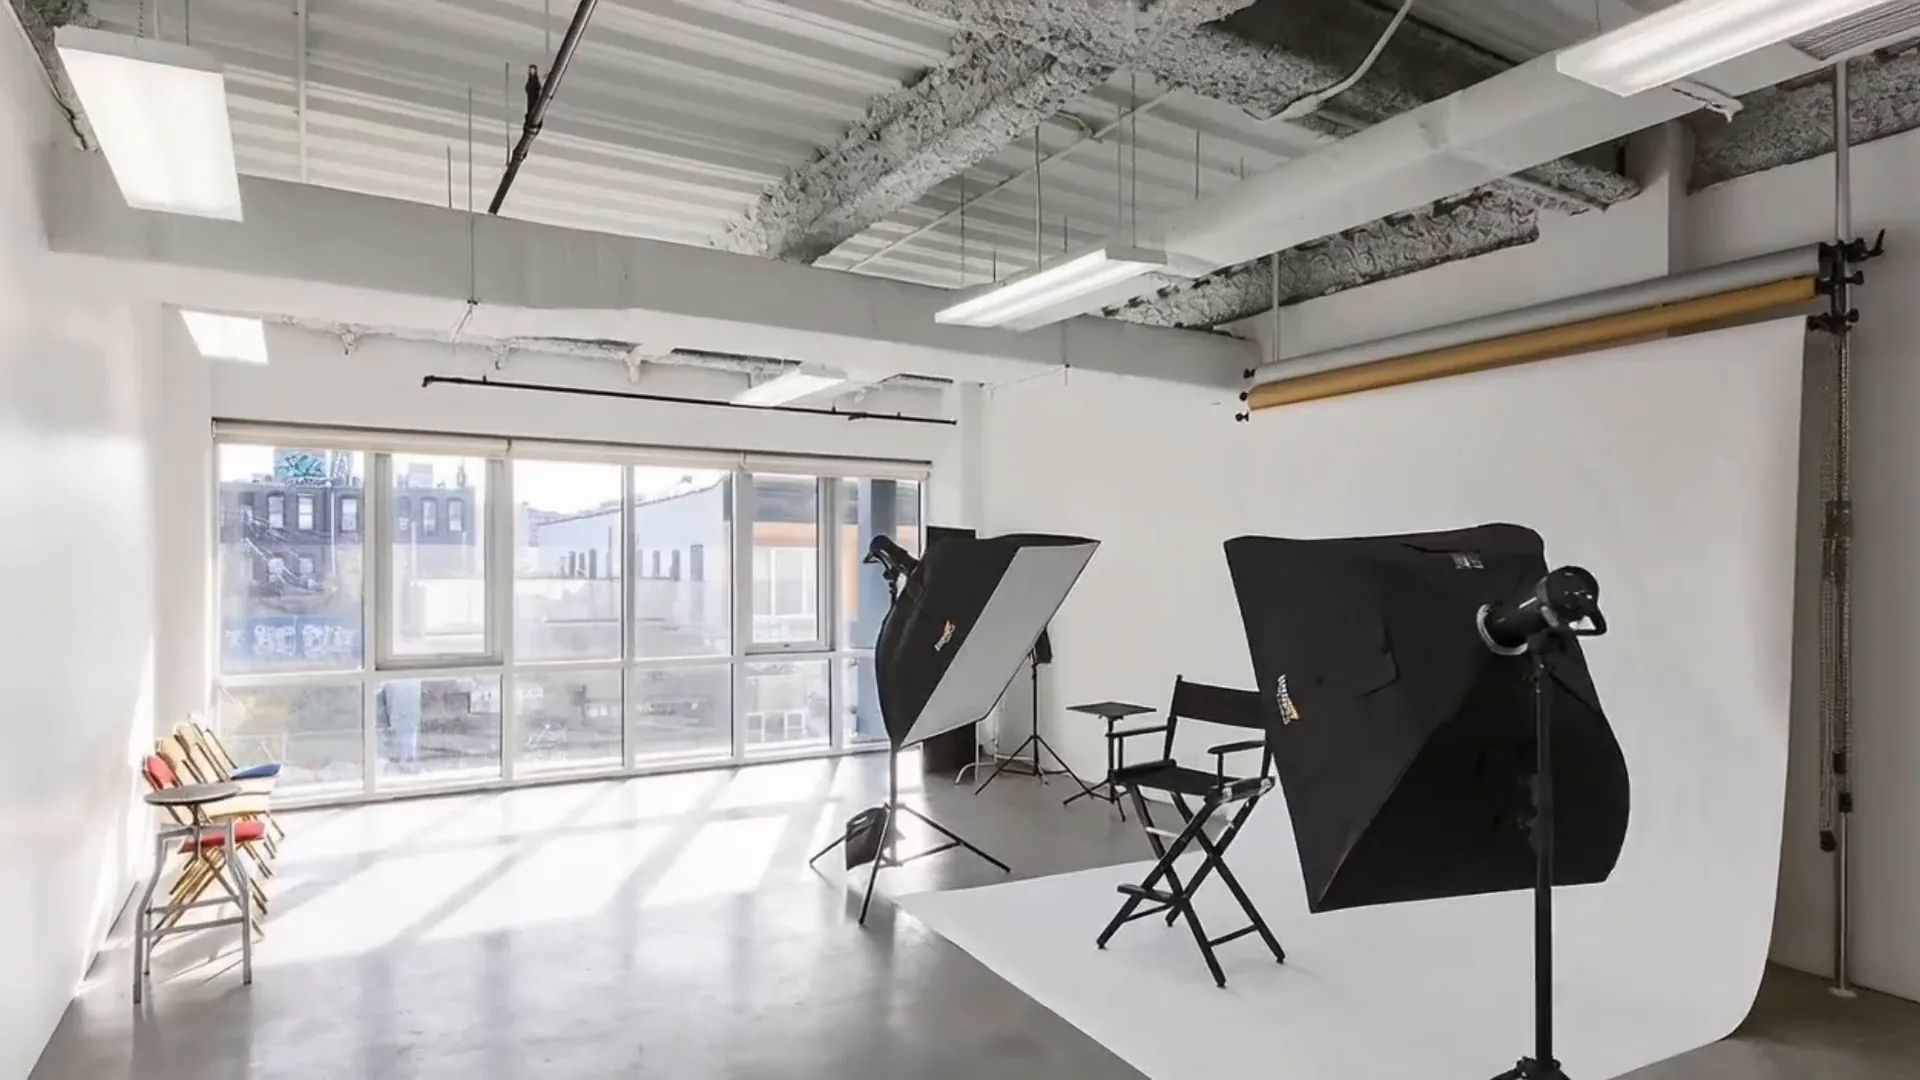
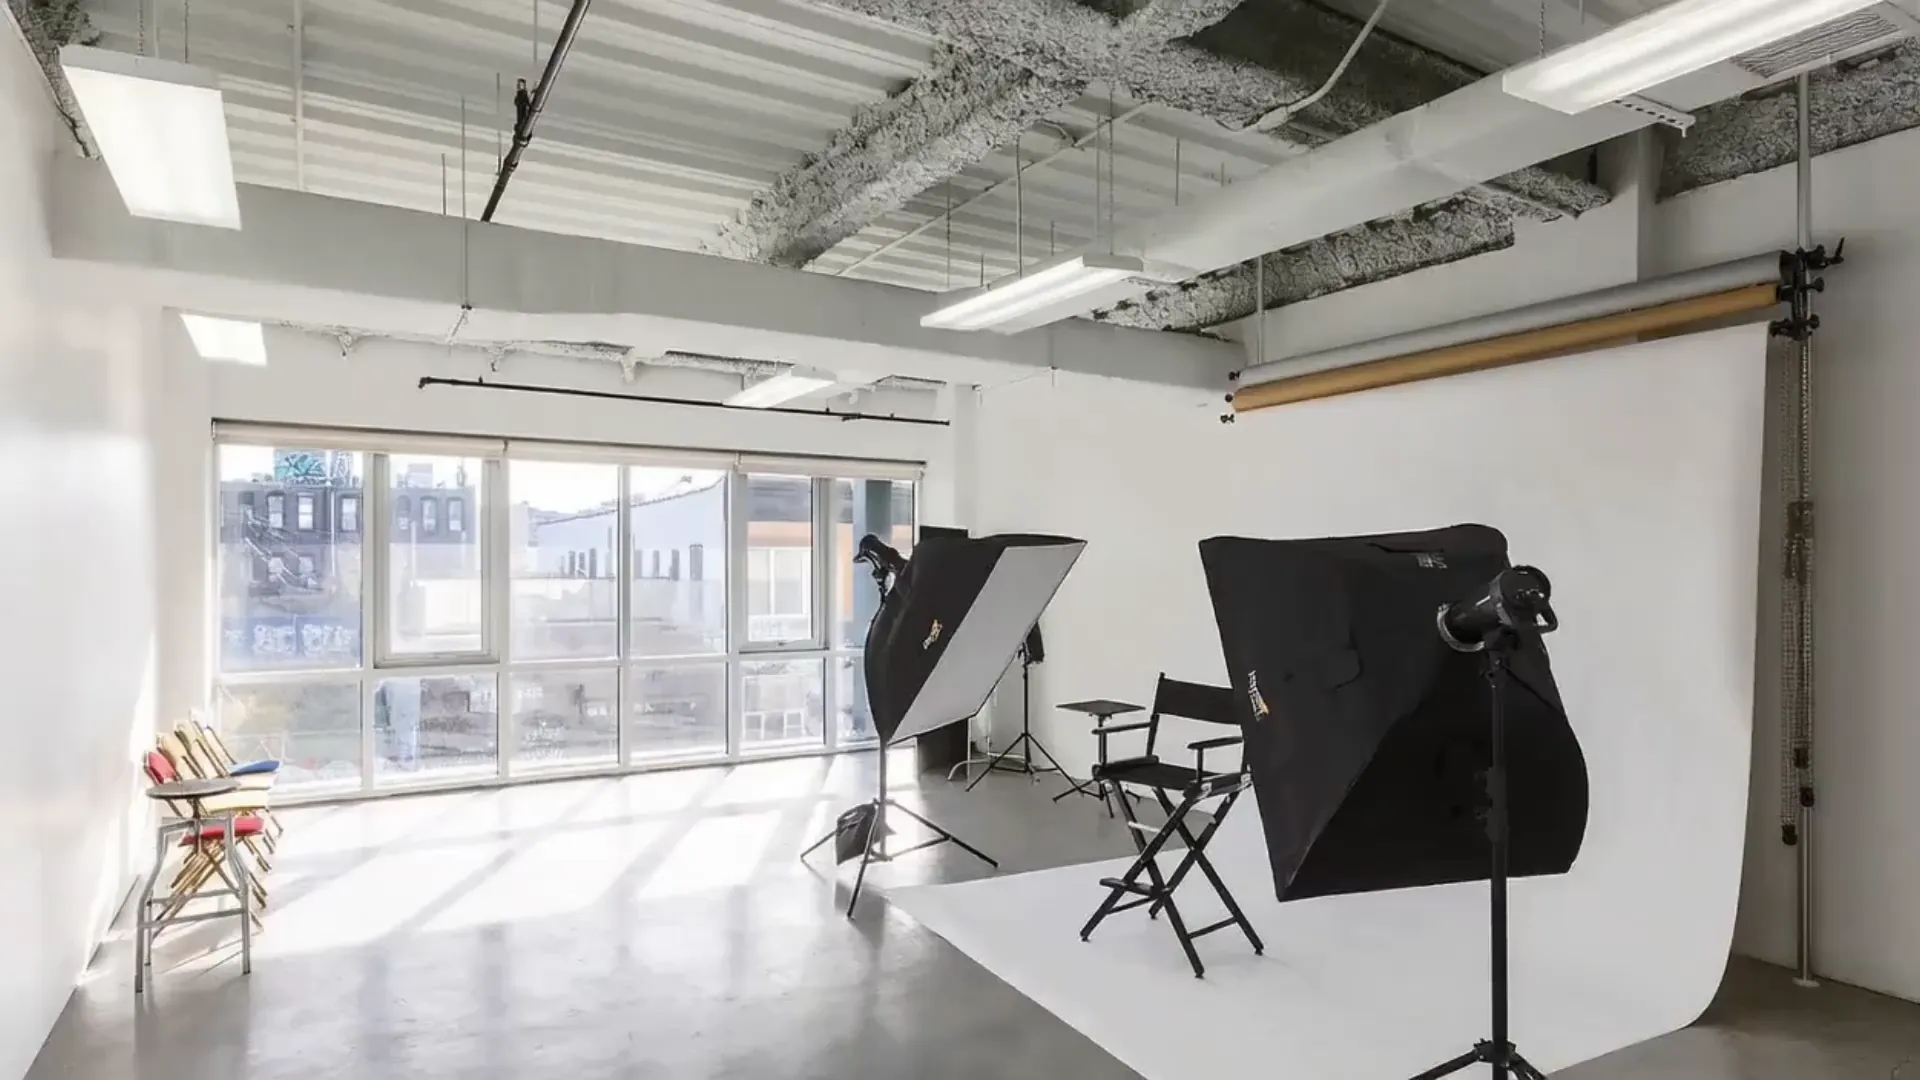
fix(landing): Show the Hero Instantly and Stop the Background Video Restarting on Load
- Remove the hero cover layer and the delayed fade on the search bar and CTA.
- Fade each glass pill in with CSS so its blur doesn't pop in.
- Turn off the scroll shrink and parallax for reduced-motion visitors.
- Regenerate the hero-bg and shoot_1 posters from each video's first frame.

diff --git a/components/landing/Hero.tsx b/components/landing/Hero.tsx
@@ -1,5 +1,5 @@
 "use client";
-import { motion, useScroll, useTransform } from "framer-motion";
+import { motion, useReducedMotion, useScroll, useTransform } from "framer-motion";
 import { useSearchParams } from "next/navigation";
 import { Suspense, useEffect, useMemo, useRef, useState } from "react";
 import { BiSearch } from "react-icons/bi";
@@ -73,10 +73,14 @@ const HeroSearch = () => {
 const Hero = () => {
   const containerRef = useRef<HTMLDivElement>(null);
   const [isMounted, setIsMounted] = useState(false);
+  const prefersReducedMotion = useReducedMotion();
 
   useEffect(() => {
     setIsMounted(true);
   }, []);
+
+  // The server can't know the motion preference, so scroll effects only attach after mount.
+  const scrollMotion = isMounted && !prefersReducedMotion;
 
   const { scrollYProgress } = useScroll({
     target: isMounted ? containerRef : undefined,
@@ -92,17 +96,15 @@ const Hero = () => {
   return (
     <motion.div
       ref={containerRef}
-      style={{ scale, borderRadius }}
+      style={scrollMotion ? { scale, borderRadius } : undefined}
       className="relative overflow-hidden"
     >
       <div
         className="relative flex items-center h-[calc(100vh-80px)] min-h-120"
       >
-        <div className="absolute inset-0 z-50 pointer-events-none bg-background opacity-0 animate-hero-reveal motion-reduce:animate-none" />
-
         <motion.div
           className="absolute z-0 left-0 right-0 top-[-8%] h-[116%]"
-          style={{ y: videoY }}
+          style={scrollMotion ? { y: videoY } : undefined}
         >
           <video
             autoPlay
@@ -110,7 +112,6 @@ const Hero = () => {
             playsInline
             preload="metadata"
             poster="/videos/hero-bg-poster.webp"
-            onEnded={(e) => e.currentTarget.pause()}
             className="w-full h-full object-cover"
             controls={false}
           >
@@ -124,7 +125,7 @@ const Hero = () => {
         <div className="absolute inset-0 z-10 bg-linear-to-br from-foreground/50 to-foreground/90" />
 
         <motion.div
-          style={{ y: contentY }}
+          style={scrollMotion ? { y: contentY } : undefined}
           className="relative z-20 w-full"
         >
           <Container>
@@ -141,28 +142,20 @@ const Hero = () => {
                 className="mb-6 text-background! max-w-2xl"
               />
 
-              <motion.div
-                initial={{ opacity: 0, y: 24 }}
-                animate={{ opacity: 1, y: 0 }}
-                transition={{ duration: 0.65, delay: 0.75 }}
-                className="mb-6 flex flex-wrap gap-2"
-              >
+              <div className="mb-6 flex flex-wrap gap-2">
                 {HERO_HIGHLIGHTS.map((highlight: string) => (
+                  // Animated per pill: opacity on a parent stops the glass blur from rendering.
                   <Pill
                     key={highlight}
                     label={highlight}
                     variant="glass"
                     size="sm"
+                    className="animate-hero-rise motion-reduce:animate-none"
                   />
                 ))}
-              </motion.div>
+              </div>
 
-              <motion.div
-                initial={{ opacity: 0, y: 20 }}
-                animate={{ opacity: 1, y: 0 }}
-                transition={{ duration: 0.6, delay: 0.85 }}
-                className="flex flex-col gap-6"
-              >
+              <div className="flex flex-col gap-6">
                 <div className="w-full">
                   <Suspense fallback={
                     <div className="h-16 w-full max-w-xl animate-pulse rounded-full bg-background/20 backdrop-blur-md md:max-w-2xl lg:max-w-3xl" />
@@ -181,7 +174,7 @@ const Hero = () => {
                     size="lg"
                   />
                 </div>
-              </motion.div>
+              </div>
             </div>
           </Container>
         </motion.div>

diff --git a/styles/globals.css b/styles/globals.css
@@ -3,11 +3,11 @@
 @plugin "@tailwindcss/typography";
 
 @theme {
-	--animate-hero-reveal: hero-reveal 0.65s ease-out both;
+	--animate-hero-rise: hero-rise 0.4s ease-out 0.1s backwards;
 
-	@keyframes hero-reveal {
-		0%, 45% { opacity: 1; }
-		100% { opacity: 0; }
+	@keyframes hero-rise {
+		from { opacity: 0; transform: translateY(12px); }
+		to { opacity: 1; transform: translateY(0); }
 	}
 
 	/* 1. Core Primitives */
